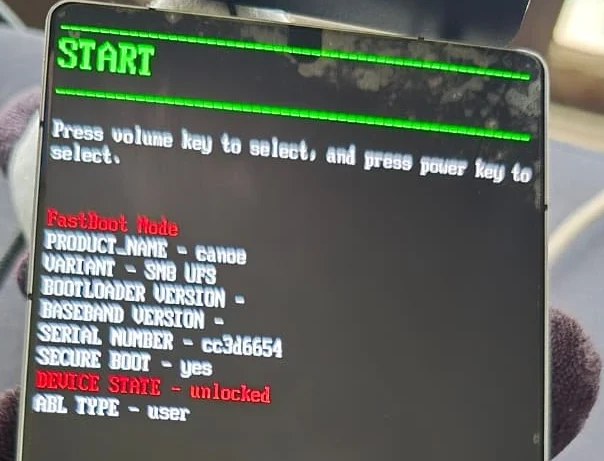
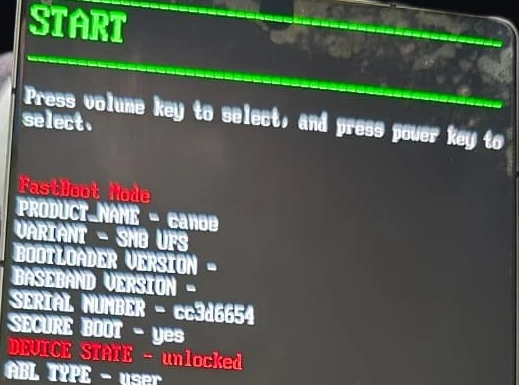
Polish RedMagic guide: redact PII, clean backgrounds, add help section
- Redact the Windows username from the terminal screenshot (tight crop
  to the final 3 lines + black-box over the two occurrences).
- Remove the car-seat/plush-toy background from 4 phone photos via
  background segmentation, composited onto the page's own dark bg so
  they read as a clean product shot instead of an improvised capture.
- Add a real screenshot of the ZTE Family Toolbox running the full
  unlock sequence (Fase 04), illustrating the actual tool procedure
  instead of only describing it in text.
- Add a "Te trabaste?" section (Fase 09) pointing to the existing
  TikTok/Discord contact links, with a note to have the resources
  downloaded first.

diff --git a/src/pages/RootRedMagic11Pro.jsx b/src/pages/RootRedMagic11Pro.jsx
@@ -1,6 +1,7 @@
 import { useState } from 'react'
 import SiteNav from '../components/SiteNav.jsx'
 import '../styles/redmagic-root.css'
+import { socialLinks } from '../data/ecosystem.js'
 import fastbootLocked from '../assets/redmagic-guide/fastboot-locked.webp'
 import fastbootUnlocked from '../assets/redmagic-guide/fastboot-unlocked.webp'
 import unlockWarning from '../assets/redmagic-guide/unlock-warning.webp'
@@ -8,6 +9,7 @@ import magiskAlldone from '../assets/redmagic-guide/magisk-alldone.webp'
 import magiskSuperuser from '../assets/redmagic-guide/magisk-superuser.webp'
 import powershellRoot from '../assets/redmagic-guide/powershell-root.webp'
 import homeBooted from '../assets/redmagic-guide/home-booted.webp'
+import toolboxSession from '../assets/redmagic-guide/toolbox-session.webp'
 
 // Foto real con su etiqueta, para las capturas del proceso (no mockups).
 function Shot({ src, alt, caption, wide }) {
@@ -92,6 +94,7 @@ export default function RootRedMagic11Pro() {
             <li><a href="#fase-6">06 · Root con Magisk</a></li>
             <li><a href="#resumen">07 · Resumen de trabas</a></li>
             <li><a href="#recursos">08 · Recursos</a></li>
+            <li><a href="#ayuda">09 · ¿Te trabaste?</a></li>
           </ol>
         </div>
 
@@ -153,6 +156,8 @@ export default function RootRedMagic11Pro() {
             <span className="tag">Como entrar a modo EDL</span>
             <p>Con el telefono encendido y conectado: <code className="mono">adb reboot edl</code>. La pantalla se queda completamente negra — asi se ve EDL, sin interfaz. Si el PC no lo reconoce, instala el driver Qualcomm oficial (Fase 01) y revisa el Administrador de dispositivos: debe aparecer como &quot;Qualcomm HS-USB QDLoader 9008&quot;.</p>
           </div>
+          <p>Asi se ve el toolbox corriendo el proceso completo, de principio a fin — deteccion del telefono, respaldo de <code className="mono">efisp</code>, flasheo, y la pregunta final sobre la advertencia amarilla:</p>
+          <Shot src={toolboxSession} alt="Ventana de ZTE Family Toolbox mostrando el procedimiento completo de desbloqueo en chino, con progreso en tiempo real" caption="Captura real de la herramienta — asi se ve la secuencia completa." />
         </section>
 
         <section className="rm-phase" id="fase-5">
@@ -224,6 +229,16 @@ export default function RootRedMagic11Pro() {
             <span className="tag">Sobre la herramienta comunitaria</span>
             <p>ZTE Family Toolbox no tiene firma digital de una empresa — es trabajo de la comunidad de modding. Descargala solo del hilo oficial de XDA, sube el archivo a VirusTotal antes de ejecutarlo, y desconfia de cualquier version que no venga de esa fuente.</p>
           </div>
+        </section>
+
+        <section className="rm-phase" id="ayuda" style={{ marginBottom: 20 }}>
+          <div className="rm-phase-head"><span className="rm-phase-num">09</span><div><h2>¿Te trabaste?</h2><p className="sub">Antes de escribirme, ten esto a mano</p></div></div>
+          <p>Si te confundes en algun paso o no sabes como seguir, con gusto te ayudo directamente. Pero antes de contactarme, asegurate de tener <strong>todos los recursos de la seccion anterior ya descargados</strong> — con eso a la mano puedo ayudarte mucho mas rapido.</p>
+          <div className="rm-help-row">
+            <a className="rm-help-btn tiktok" href={socialLinks.tiktokMain} target="_blank" rel="noopener noreferrer">TikTok — @.mashesp</a>
+            <a className="rm-help-btn discord" href={socialLinks.discord} target="_blank" rel="noopener noreferrer">Discord</a>
+          </div>
+          <p className="rm-help-note">Estoy activo en ambos — TikTok suele ser mas rapido, pero Discord es mejor si necesitas mandar capturas o logs largos.</p>
         </section>
 
         <div className="rm-footer-note">

diff --git a/src/styles/redmagic-root.css b/src/styles/redmagic-root.css
@@ -104,3 +104,15 @@ code.mono { font-family: ui-monospace, SFMono-Regular, Menlo, Consolas, monospac
 
 .rm-footer-note { border-top: 1px solid var(--border); margin-top: 60px; padding-top: 24px; color: var(--text-faint); font-size: 0.86rem; display: flex; justify-content: space-between; flex-wrap: wrap; gap: 12px; }
 .rm-footer-note code.mono { color: var(--text-faint); }
+
+.rm-help-row { display: flex; gap: 12px; flex-wrap: wrap; margin: 20px 0 12px; }
+.rm-help-btn {
+  display: inline-flex; align-items: center; gap: 8px; padding: 12px 22px; border-radius: 999px;
+  font-family: var(--font-body); font-weight: 700; font-size: 0.92rem; text-decoration: none; color: #fff;
+  transition: transform 0.15s ease; border: 1px solid transparent;
+}
+.rm-help-btn:hover { transform: translateY(-1px); }
+.rm-help-btn.tiktok { background: #0a0a0a; border-color: #2a2a2a; }
+.rm-help-btn.tiktok::before { content: ''; width: 10px; height: 10px; border-radius: 3px; background: linear-gradient(135deg, #25F4EE, #FE2C55); }
+.rm-help-btn.discord { background: #5865F2; }
+.rm-help-note { color: var(--text-faint); font-size: 0.82rem; margin-top: 4px; }
